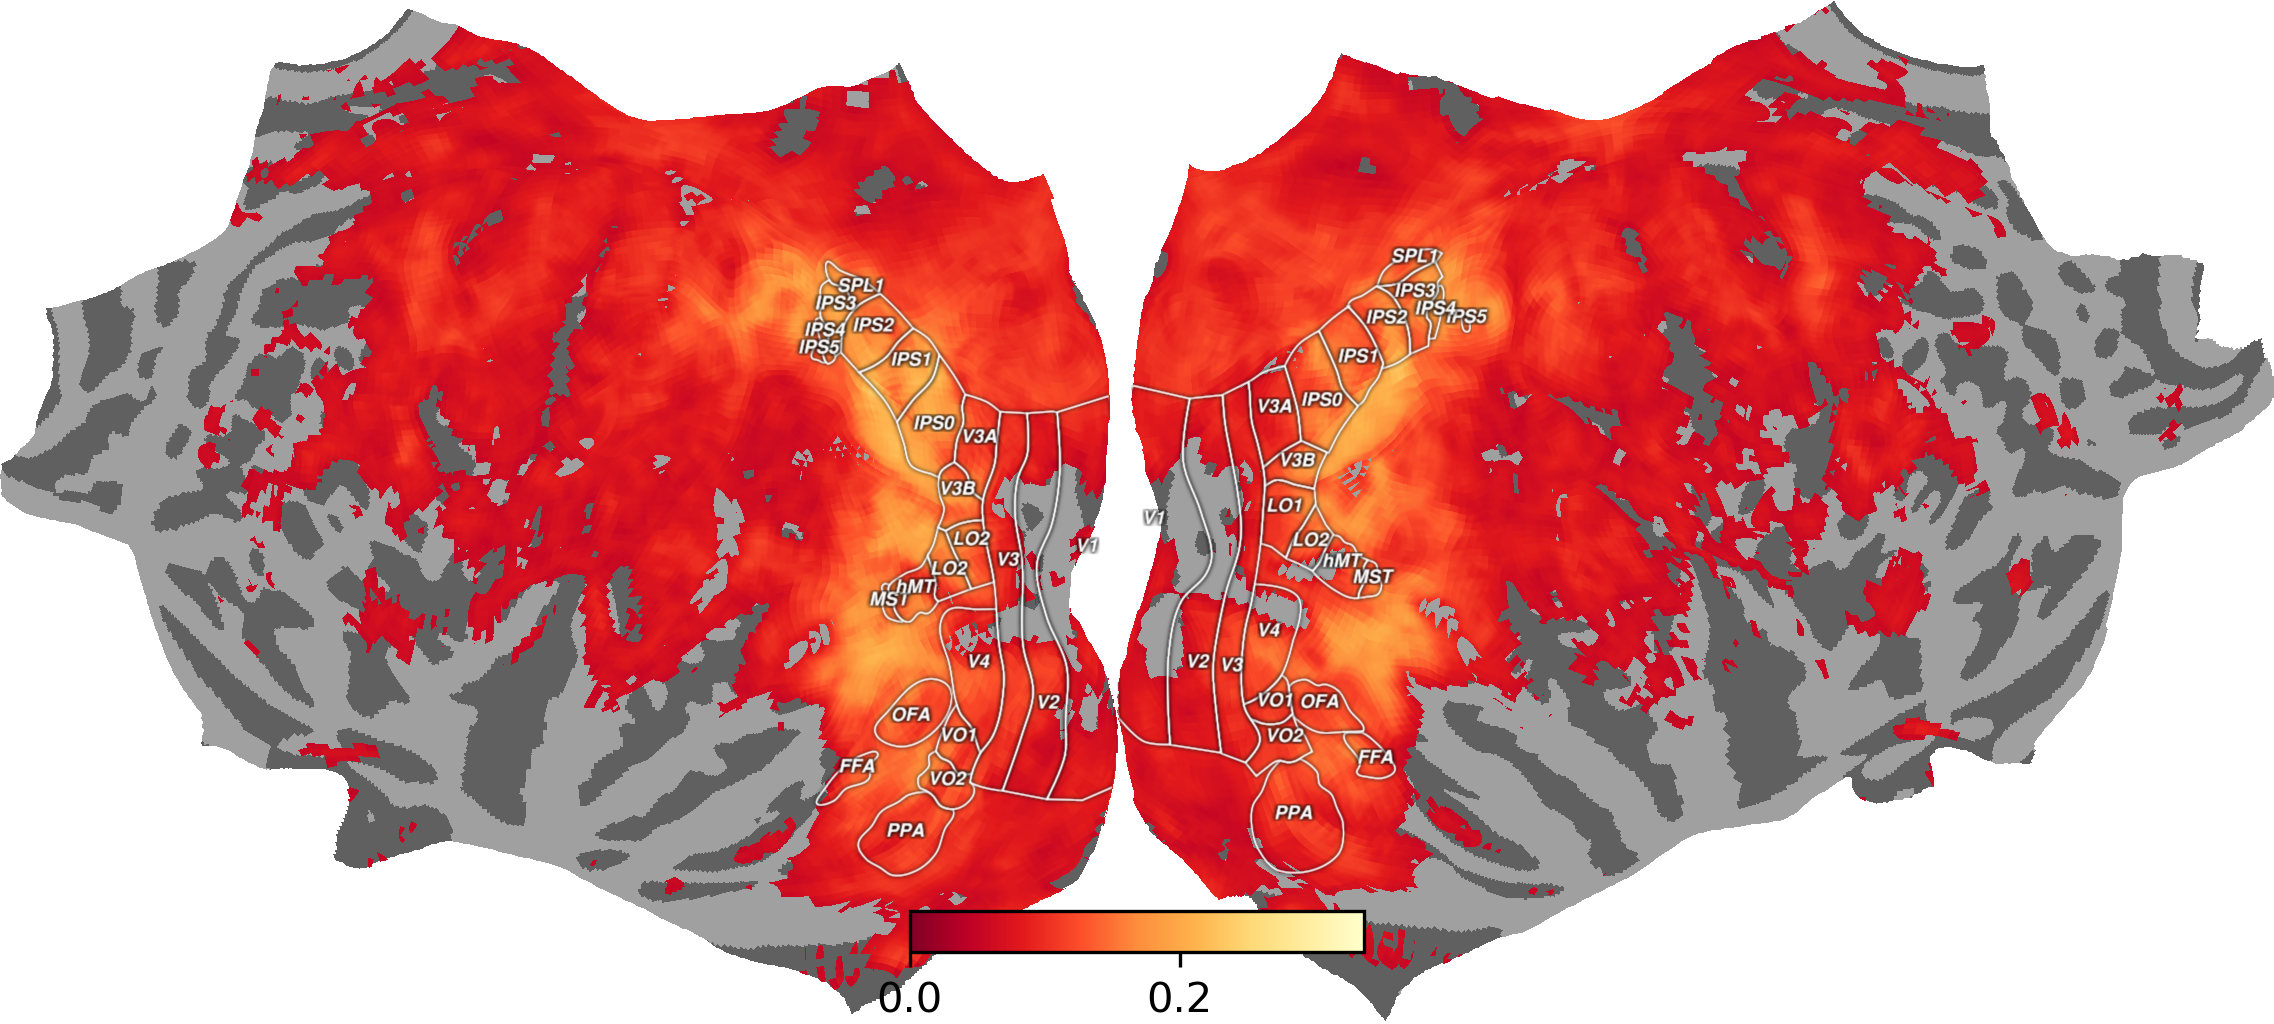
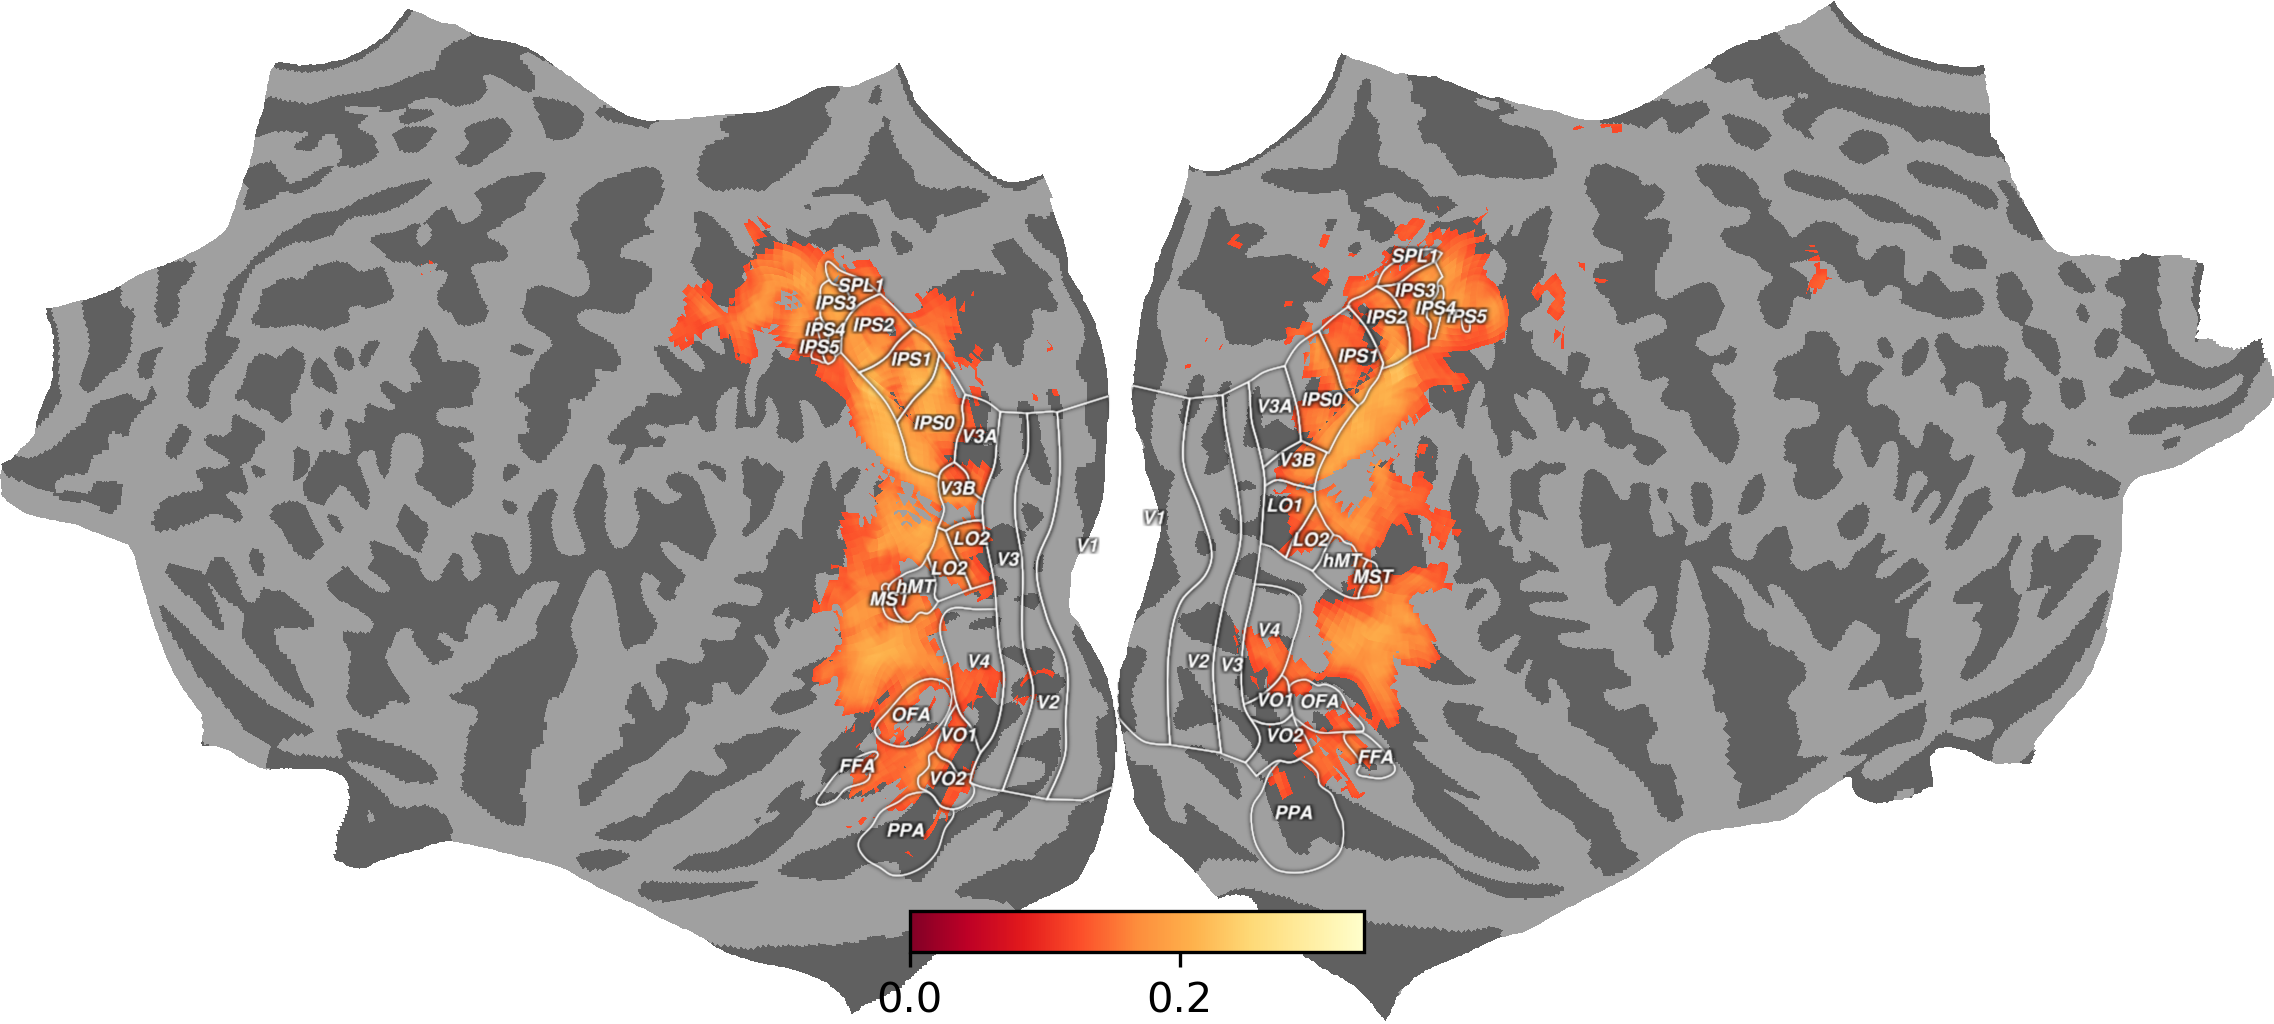
plot surface edits

diff --git a/being_verified/exp_1/results/figures/plot_surface.py b/being_verified/exp_1/results/figures/plot_surface.py
@@ -117,7 +117,7 @@ def get_global_stats(rois, hemispheres, analysis_type='fc'):
     
     # Use std-based threshold
     #threshold = global_std * 0.5
-    threshold = .05
+    threshold = .12
     
     print(f"\nGlobal statistics:")
     print(f"Global min: {global_min}")
@@ -127,6 +127,7 @@ def get_global_stats(rois, hemispheres, analysis_type='fc'):
     
     return global_min, global_max, threshold
 
+        
 def main():
     # Print diagnostic information
     print(f"Pycortex database: {cortex.database.default_filestore}")
@@ -139,10 +140,11 @@ def main():
     # Get global statistics
     global_min, global_max, threshold = get_global_stats(rois, hemispheres)
     
-    # Modify create_flatmap_visualization to use global values
+    # Create both flatmap and inflated visualizations
     for roi in rois:
         for hemi in hemispheres:
             print(f"\nProcessing {roi} {hemi}")
+            # Create flatmap
             create_flatmap_visualization(roi, hemi, global_min=global_min, 
                                       global_max=global_max, threshold=threshold)
 

diff --git a/being_verified/exp_1/results/figures/plot_surface_interactive.py b/being_verified/exp_1/results/figures/plot_surface_interactive.py
@@ -1,3 +1,4 @@
+# must run in local
 import os
 import nibabel as nib
 import cortex
@@ -22,7 +23,7 @@ def show_interactive_brain(roi, hemi, analysis_type='fc', subject='fsaverage'):
     )
     
     # Open interactive viewer
-    cortex.webgl.show(data=vol, port=8051)
+    cortex.webgl.show(data=vol)
 
 if __name__ == "__main__":
     # Example usage - you can modify these parameters
